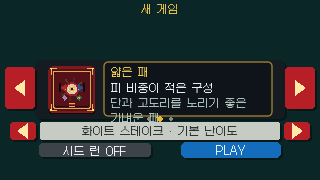
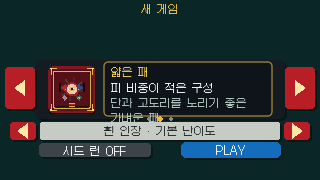
asset: apply high-res pixel art for ui.stake_red
Promote the locked red New Run stake chip from a 384x384 master through
the real Pixel Perfect endpoint, then wire draw_red into setup UI.

Changed region(s): [[0.25, 0.6944, 0.75, 0.7778]]

diff --git a/tools/asset_pipeline/generate_stake_red.py b/tools/asset_pipeline/generate_stake_red.py
@@ -1,0 +1,63 @@
+#!/usr/bin/env python3
+"""Project-authored 384x384 red hwatu stake chip master."""
+from math import cos, pi, sin
+from pathlib import Path
+from PIL import Image, ImageDraw
+
+W, H, OUT = 384, 384, Path("assets/masters/ui/stake-red-v1.png")
+CRIMSON = (168, 36, 42, 255)
+LACQUER = (92, 16, 22, 255)
+GOLD = (196, 158, 72, 255)
+PEARL = (248, 232, 210, 255)
+IVORY = (236, 214, 186, 255)
+INDIGO = (42, 58, 118, 255)
+SHADOW = (28, 10, 12, 255)
+
+
+def polar(cx, cy, r, a):
+    return cx + r * cos(a), cy + r * sin(a)
+
+
+def star(draw, cx, cy, outer, inner, n, fill, outline=None):
+    pts = [polar(cx, cy, outer if i % 2 == 0 else inner, -pi / 2 + i * pi / n) for i in range(n * 2)]
+    draw.polygon(pts, fill=fill, outline=outline)
+
+
+def run():
+    im = Image.new("RGBA", (W, H), (0, 0, 0, 0))
+    d, cx, cy = ImageDraw.Draw(im, "RGBA"), W // 2, H // 2
+    d.ellipse((8, 12, W - 8, H - 4), fill=SHADOW)
+    d.ellipse((8, 8, W - 8, H - 12), fill=CRIMSON)
+    d.ellipse((28, 28, W - 28, H - 32), fill=LACQUER)
+    d.ellipse((48, 48, W - 48, H - 52), outline=GOLD, width=10)
+    d.ellipse((68, 68, W - 68, H - 72), outline=(255, 196, 120, 255), width=6)
+    for i in range(8):
+        a = i * pi / 4 + 0.18
+        d.polygon(
+            [polar(cx, cy - 4, 22, a), polar(cx, cy - 4, 118, a - 0.07), polar(cx, cy - 4, 118, a + 0.07)],
+            fill=(255, 196, 120, 80) if i % 2 == 0 else (248, 232, 210, 55),
+        )
+    d.ellipse((cx - 58, cy - 62, cx + 58, cy + 50), fill=PEARL)
+    d.ellipse((cx - 40, cy - 44, cx + 40, cy + 32), fill=IVORY)
+    star(d, cx, cy - 6, 36, 14, 8, GOLD, (255, 232, 150, 255))
+    star(d, cx, cy - 6, 14, 5, 8, CRIMSON)
+    d.polygon([(cx - 108, cy - 8), (cx - 62, cy - 42), (cx - 68, cy + 16)], fill=(236, 214, 186, 255), outline=GOLD)
+    d.rectangle((cx - 116, cy - 46, cx - 106, cy + 20), fill=SHADOW)
+    d.polygon([(cx + 108, cy - 8), (cx + 62, cy - 42), (cx + 68, cy + 16)], fill=INDIGO, outline=GOLD)
+    d.rectangle((cx + 106, cy - 46, cx + 116, cy + 20), fill=SHADOW)
+    d.polygon(
+        [(cx - 18, cy + 86), (cx, cy + 62), (cx + 18, cy + 86), (cx, cy + 110)],
+        fill=(48, 108, 86, 255),
+        outline=GOLD,
+    )
+    for x, y, dx, dy in ((36, 36, 1, 1), (W - 36, 36, -1, 1), (36, H - 40, 1, -1), (W - 36, H - 40, -1, -1)):
+        d.line((x, y, x + dx * 36, y), fill=GOLD, width=8)
+        d.line((x, y, x, y + dy * 36), fill=GOLD, width=8)
+        d.ellipse((x - 7, y - 7, x + 7, y + 7), fill=(255, 224, 140, 255))
+    OUT.parent.mkdir(parents=True, exist_ok=True)
+    im.save(OUT)
+    print(f"Saved {OUT}")
+
+
+if __name__ == "__main__":
+    run()

diff --git a/docs/STATUS.md b/docs/STATUS.md
@@ -1,13 +1,11 @@
 # STATUS
-## 2026-09-09 — 흰 난이도 칩 고해상도 픽셀 에셋 적용
-
-- `ui.stake_white`에 384×384 옻칠 상아색 화투 난이도 칩 PNG master와 16×16 runtime 에셋을 추가했다.
+- `ui.stake_red`에 384×384 옻칠 진홍색 화투 난이도 칩 PNG master와 16×16 runtime 에셋을 추가했다.
 - Asset Studio 실제 `POST /api/pixel-perfect` 변환 보고서의 dimensions/alignment/palette/transparentAlpha/nearestNeighbor 검사를 통과했다.
-- 신규 `game/ui/stake_art.lua`에 `draw_white` 계약을 두고 새 게임 설정의 기본 난이도 행에 배선했다.
+- 기존 `game/ui/stake_art.lua`에 `draw_red` 계약을 두고 새 게임 설정의 잠긴 붉은 인장 행에 배선했다.
 - 엔진 테스트와 LÖVE 320×180 캡처 QA를 통과했다.
-- `make verify LOVE=/Users/jm/.local/bin/love` GREEN: 전체 unit/font/capture/smoke/bundle 검증이 통과했고 bundle은 655개 파일이다.
+- `make verify LOVE=/Users/jm/.local/bin/love` GREEN: 전체 unit/font/capture/smoke/bundle 검증이 통과했고 bundle은 661개 파일이다.
 - INBOX (27)은 나머지 그래픽 요소가 미완료이므로 처리 대기로 유지한다.
-- Next slice: `ui.stake_red` 고해상도 master를 실제 Pixel Perfect runtime으로 변환하고 난이도 선택 UI에 적용한다.
+- Next slice: `ui.stake_green` 고해상도 master를 실제 Pixel Perfect runtime으로 변환하고 난이도 선택 UI에 적용한다.
 
 ## 2026-09-09 — 노란 덱 썸네일 고해상도 픽셀 에셋 적용
 
@@ -171,14 +169,6 @@
 - 적용 스크립트의 반복 실행이 같은 manifest를 생성함을 확인했으며 `make verify LOVE=/Users/jm/.local/bin/love` 전체 검증을 통과했다.
 - Next slice: `gwang.compound_burst` 복합 폭주 광 슬롯 아이템의 provider-backed sprite states/frames를 생성하고 Pixel Perfect 후처리·atlas/manifest 및 런타임 적용을 추가한다.
 
-## 2026-09-09 — 복합 광 고해상도 픽셀 에셋 적용
-
-- `gwang.compound` 광 슬롯 아이템에 푸른 자개 점수 칩, 붉은 교차 비단 매듭, 네모 구멍 엽전을 하나의 순환 장치로 결합한 448×256 SVG/PNG master 및 56×32 runtime 에셋을 추가했다.
-- Asset Studio `POST /api/pixel-perfect` 변환을 거쳐 bounds/alignment/palette 등의 검사를 통과했으며 manifest에 기록했다.
-- manifest-backed 로더 회귀 테스트와 복합 광 5칸의 실제 LÖVE 320×180 캡처 QA를 통과했다.
-- INBOX (27)은 모든 그래픽 요소의 런타임 에셋 전환을 진행 중이므로 처리 대기로 유지한다.
-- `gwang.compound_burst`의 `idle`/`burst` 각 4프레임 실제 sprite-gen 요청을 Asset Studio에 보냈으나 Grok provider가 402(생성 잔액 부족)를 반환해 master/atlas를 적용하지 않았다. 정적 프레임 반복으로 대체하지 않는다.
-- manifest에서 이미 `runtime`인 대장판 3종 및 광 5종이 inventory에서 미완료로 남은 불일치를 수정하고, `make verify`가 manifest의 전체 109개 ID와 체크 상태를 자동 대조하도록 했다.
-- Next slice: `gwang.compound_burst` 복합 폭주 광 슬롯 아이템의 provider-backed sprite states/frames를 생성하고 Pixel Perfect 후처리·atlas/manifest 및 런타임 적용을 추가한다.
+> Older cycle history lives in `docs/STATUS_HISTORY.md`. Only search it when tracking a specific past bug; do not read it by default.
 
 > 이전 cycle 이력은 `docs/STATUS_HISTORY.md`에 있다. 특정 과거 버그를 추적할 때만 그 파일을 검색하고, 평소에는 읽지 않는다.

diff --git a/docs/STATUS_HISTORY.md b/docs/STATUS_HISTORY.md
@@ -1565,3 +1565,33 @@ past ~16KB. See `docs/TOKEN_OPTIMIZATION.md` for the full pattern.
 - 엔진 테스트와 LÖVE 320×180 캡처 QA를 통과했다.
 - INBOX (27)은 나머지 그래픽 요소가 미완료이므로 처리 대기로 유지한다.
 - Next slice: `ui.deck_yellow` 고해상도 master를 실제 Pixel Perfect runtime으로 변환하고 덱 선택 UI에 적용한다.
+
+## Archived from STATUS.md (2026-09-09 14:07)
+
+## 2026-09-09 — 흰 난이도 칩 고해상도 픽셀 에셋 적용
+
+- `ui.stake_white`에 384×384 옻칠 상아색 화투 난이도 칩 PNG master와 16×16 runtime 에셋을 추가했다.
+- Asset Studio 실제 `POST /api/pixel-perfect` 변환 보고서의 dimensions/alignment/palette/transparentAlpha/nearestNeighbor 검사를 통과했다.
+- 신규 `game/ui/stake_art.lua`에 `draw_white` 계약을 두고 새 게임 설정의 기본 난이도 행에 배선했다.
+- 엔진 테스트와 LÖVE 320×180 캡처 QA를 통과했다.
+- `make verify LOVE=/Users/jm/.local/bin/love` GREEN: 전체 unit/font/capture/smoke/bundle 검증이 통과했고 bundle은 655개 파일이다.
+- INBOX (27)은 나머지 그래픽 요소가 미완료이므로 처리 대기로 유지한다.
+- Next slice: `ui.stake_red` 고해상도 master를 실제 Pixel Perfect runtime으로 변환하고 난이도 선택 UI에 적용한다.
+
+## Archived from STATUS.md (2026-09-09 14:16)
+
+## 2026-09-09 — 복합 광 고해상도 픽셀 에셋 적용
+
+- `gwang.compound` 광 슬롯 아이템에 푸른 자개 점수 칩, 붉은 교차 비단 매듭, 네모 구멍 엽전을 하나의 순환 장치로 결합한 448×256 SVG/PNG master 및 56×32 runtime 에셋을 추가했다.
+- Asset Studio `POST /api/pixel-perfect` 변환을 거쳐 bounds/alignment/palette 등의 검사를 통과했으며 manifest에 기록했다.
+- manifest-backed 로더 회귀 테스트와 복합 광 5칸의 실제 LÖVE 320×180 캡처 QA를 통과했다.
+- INBOX (27)은 모든 그래픽 요소의 런타임 에셋 전환을 진행 중이므로 처리 대기로 유지한다.
+- `gwang.compound_burst`의 `idle`/`burst` 각 4프레임 실제 sprite-gen 요청을 Asset Studio에 보냈으나 Grok provider가 402(생성 잔액 부족)를 반환해 master/atlas를 적용하지 않았다. 정적 프레임 반복으로 대체하지 않는다.
+- manifest에서 이미 `runtime`인 대장판 3종 및 광 5종이 inventory에서 미완료로 남은 불일치를 수정하고, `make verify`가 manifest의 전체 109개 ID와 체크 상태를 자동 대조하도록 했다.
+- Next slice: `gwang.compound_burst` 복합 폭주 광 슬롯 아이템의 provider-backed sprite states/frames를 생성하고 Pixel Perfect 후처리·atlas/manifest 및 런타임 적용을 추가한다.
+
+> 이전 cycle 이력은 `docs/STATUS_HISTORY.md`에 있다. 특정 과거 버그를 추적할 때만 그 파일을 검색하고, 평소에는 읽지 않는다.
+
+## Archived from STATUS.md (2026-09-09 14:17)
+
+## 2026-09-09 — 붉은 난이도 칩 고해상도 픽셀 에셋 적용

diff --git a/docs/GENERATED_ASSET_LOG.md b/docs/GENERATED_ASSET_LOG.md
@@ -300,5 +300,9 @@
 | 2026-09-09T17:20:00+0900 | `assets/runtime/ui/stake-white-v1.png` | 16×16 runtime stake chip from actual Asset Studio `POST /api/pixel-perfect`; original palette, hard alpha, nearest validation 5/5 |
 | 2026-09-09T17:20:00+0900 | `assets/runtime/ui/stake-white-v1.report.json` | Asset Studio conversion report recording dimensions, alpha bounds, 11-color palette, alignment, and nearest-neighbor validation |
[1 lines of base64/hex data omitted]
+| 2026-09-09T18:10:00+0900 | `assets/masters/ui/stake-red-v1.png` | Project-authored 384×384 lacquered crimson hwatu stake chip with brass rim, a mother-of-pearl center mark, and five geometric type marks; no text, people, or month imagery |
+| 2026-09-09T18:10:00+0900 | `assets/runtime/ui/stake-red-v1.png` | 16×16 runtime stake chip from actual Asset Studio `POST /api/pixel-perfect`; original palette, hard alpha, nearest validation 5/5 |
+| 2026-09-09T18:10:00+0900 | `assets/runtime/ui/stake-red-v1.report.json` | Asset Studio conversion report recording dimensions, alpha bounds, 10-color palette, alignment, and nearest-neighbor validation |
[1 lines of base64/hex data omitted]
 
 

diff --git a/docs/ASSET_INVENTORY.md b/docs/ASSET_INVENTORY.md
@@ -123,7 +123,7 @@
 - [x] `ui.deck_red` - ui.deck_red
 - [x] `ui.deck_yellow` - ui.deck_yellow
 - [x] `ui.stake_white` - ui.stake_white
-- [ ] `ui.stake_red` - ui.stake_red
+- [x] `ui.stake_red` - ui.stake_red
 - [ ] `ui.stake_green` - ui.stake_green
 - [x] `ui.blind_small` - first-round card
 - [x] `ui.blind_big` - big-round card
